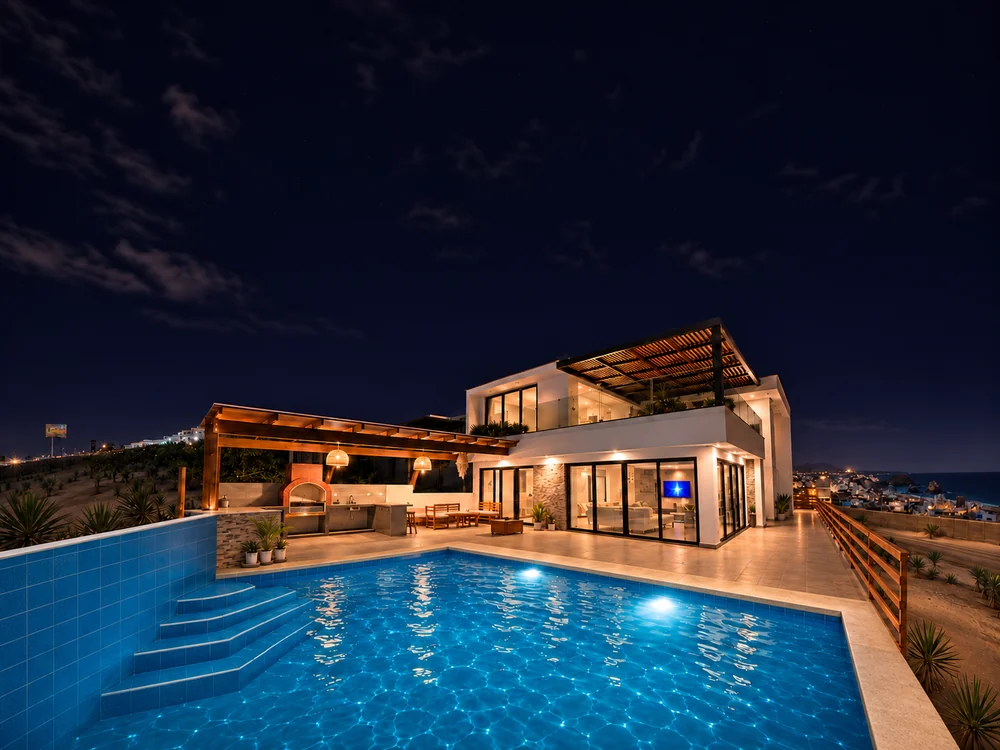
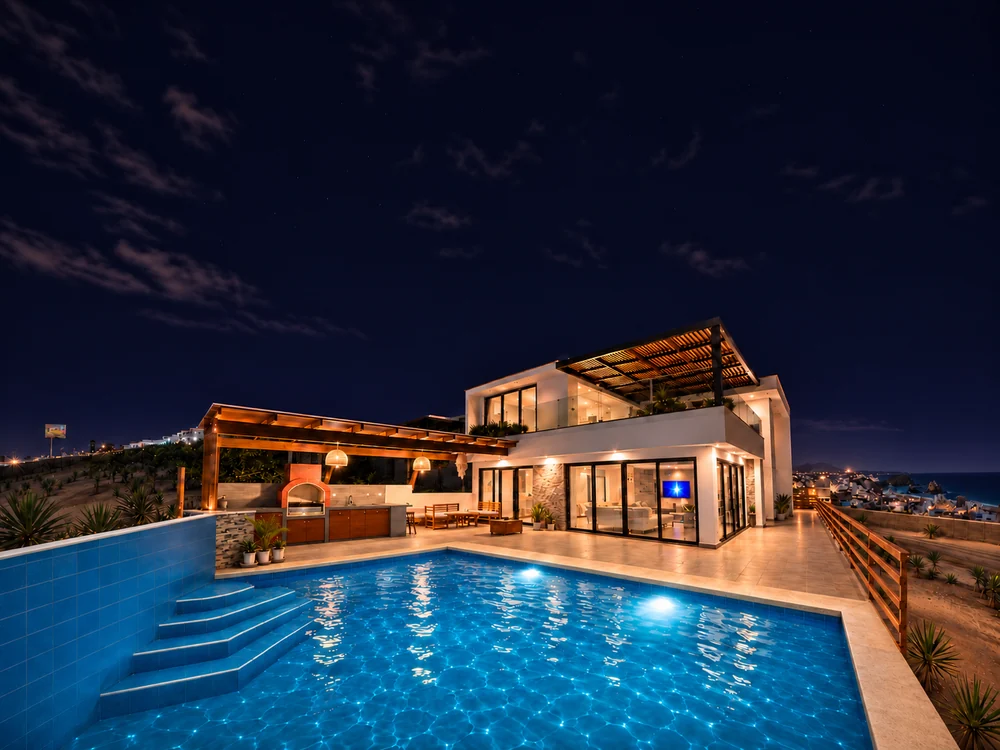
Portada "final exterior", regla de fumar, garaje y quitar pendientes de toallas/Starlink

diff --git a/index.html b/index.html
@@ -70,6 +70,7 @@
     <symbol id="i-wrench" viewBox="0 0 24 24"><path d="M14.7 6.3a1 1 0 0 0 0 1.4l1.6 1.6a1 1 0 0 0 1.4 0l3.77-3.77a6 6 0 0 1-7.94 7.94l-6.91 6.91a2.12 2.12 0 0 1-3-3l6.91-6.91a6 6 0 0 1 7.94-7.94l-3.76 3.76z"/></symbol>
     <symbol id="i-camera" viewBox="0 0 24 24"><path d="M14.5 4h-5L7 7H4a2 2 0 0 0-2 2v9a2 2 0 0 0 2 2h16a2 2 0 0 0 2-2V9a2 2 0 0 0-2-2h-3l-2.5-3z"/><circle cx="12" cy="13" r="3"/></symbol>
     <symbol id="i-pin" viewBox="0 0 24 24"><path d="M20 10c0 5-5.54 10.19-7.4 11.8a1 1 0 0 1-1.2 0C9.54 20.19 4 15 4 10a8 8 0 0 1 16 0"/><circle cx="12" cy="10" r="3"/></symbol>
+    <symbol id="i-smoke" viewBox="0 0 24 24"><path d="M17 12H3a1 1 0 0 0-1 1v2a1 1 0 0 0 1 1h14"/><path d="M18 8c0-2.5-2-2.5-2-5"/><path d="M21 16a1 1 0 0 0 1-1v-2a1 1 0 0 0-1-1"/><path d="M22 8c0-2.5-2-2.5-2-5"/><path d="M7 12v4"/></symbol>
     <symbol id="i-car" viewBox="0 0 24 24"><path d="M19 17h2c.6 0 1-.4 1-1v-3c0-.9-.7-1.7-1.5-1.9C18.7 10.6 16 10 16 10s-1.3-1.4-2.2-2.3c-.5-.4-1.1-.7-1.8-.7H5c-.6 0-1.1.4-1.4.9l-1.4 2.9A3.7 3.7 0 0 0 2 12v4c0 .6.4 1 1 1h2"/><circle cx="7" cy="17" r="2"/><path d="M9 17h6"/><circle cx="17" cy="17" r="2"/></symbol>
     <symbol id="i-waves" viewBox="0 0 24 24"><path d="M2 6c.6.5 1.2 1 2.5 1C7 7 7 5 9.5 5c2.6 0 2.4 2 5 2 2.5 0 2.5-2 5-2 1.3 0 1.9.5 2.5 1"/><path d="M2 12c.6.5 1.2 1 2.5 1 2.5 0 2.5-2 5-2 2.6 0 2.4 2 5 2 2.5 0 2.5-2 5-2 1.3 0 1.9.5 2.5 1"/><path d="M2 18c.6.5 1.2 1 2.5 1 2.5 0 2.5-2 5-2 2.6 0 2.4 2 5 2 2.5 0 2.5-2 5-2 1.3 0 1.9.5 2.5 1"/></symbol>
     <symbol id="i-shirt" viewBox="0 0 24 24"><path d="M20.38 3.46 16 2a4 4 0 0 1-8 0L3.62 3.46a2 2 0 0 0-1.34 2.23l.58 3.47a1 1 0 0 0 .99.84H6v10c0 1.1.9 2 2 2h8a2 2 0 0 0 2-2V10h2.15a1 1 0 0 0 .99-.84l.58-3.47a2 2 0 0 0-1.34-2.23z"/></symbol>
@@ -308,7 +309,7 @@
             <li data-i18n="inc.g1.4">Comedor al aire libre</li>
             <li data-i18n="inc.g1.5">Tumbonas</li>
             <li data-i18n="inc.g1.6">Ducha exterior</li>
-            <li data-i18n="inc.g1.7">Estacionamiento gratuito en la casa</li>
+            <li data-i18n="inc.g1.7">Garaje para unos 3 autos + 1 espacio extra al lado de la casa</li>
           </ul>
         </details>
 
@@ -381,8 +382,6 @@
           <ul class="nolist">
             <li><svg class="ic" width="20" height="20" aria-hidden="true"><use href="#i-shirt"/></svg><span data-i18n="inc.no1">Lavadora ni secadora de ropa</span></li>
             <li><svg class="ic" width="20" height="20" aria-hidden="true"><use href="#i-snow"/></svg><span data-i18n="inc.no2">Aire acondicionado (hay ventiladores)</span></li>
-            <!-- [CONFIRMAR] Toallas y artículos básicos de baño: confirmar con el anfitrión que NO se incluyen -->
-            <li><svg class="ic" width="20" height="20" aria-hidden="true"><use href="#i-bath"/></svg><span data-i18n="inc.no3">Toallas y artículos básicos de baño</span></li>
             <li><svg class="ic" width="20" height="20" aria-hidden="true"><use href="#i-drop"/></svg><span data-i18n="inc.no4">Consumo de agua adicional a la cisterna incluida (lo asume el huésped)</span></li>
             <li><svg class="ic" width="20" height="20" aria-hidden="true"><use href="#i-thermo"/></svg><span data-i18n="inc.no5">Calefacción de la piscina (fuera del verano, el agua está fría)</span></li>
           </ul>
@@ -408,7 +407,7 @@
       <li class="rule rv rv-up" style="--d:.35s"><svg class="ic" width="22" height="22" aria-hidden="true"><use href="#i-mute"/></svg><p data-i18n="rules.r7">No se permiten fiestas ruidosas ni eventos masivos. Las multas del condominio se trasladan al huésped.</p></li>
       <li class="rule rv rv-up" style="--d:.4s"><svg class="ic" width="22" height="22" aria-hidden="true"><use href="#i-wrench"/></svg><p data-i18n="rules.r8">No manipular el cuarto de máquinas de la piscina. La catarata funciona en horario programado; para otro horario, coordina con el anfitrión.</p></li>
       <li class="rule rv rv-up" style="--d:.45s"><svg class="ic" width="22" height="22" aria-hidden="true"><use href="#i-camera"/></svg><p data-i18n="rules.r9">Fotos y grabaciones solo dentro del lote de la casa, no en áreas comunes ni casas vecinas.</p></li>
-      <!-- [CONFIRMAR] Fumar: Airbnb dice "apto para fumadores"; ¿solo en exteriores? Agregar aquí una tarjeta cuando se confirme. -->
+      <li class="rule rv rv-up" style="--d:.5s"><svg class="ic" width="22" height="22" aria-hidden="true"><use href="#i-smoke"/></svg><p data-i18n="rules.r10">Se permite fumar, de preferencia en las zonas exteriores.</p></li>
     </ul>
   </div>
 </section>
@@ -512,12 +511,10 @@
       <details class="acc"><summary><span data-i18n="faq.q3">¿Puedo llevar a mi mascota?</span><svg class="ic chev" width="18" height="18" aria-hidden="true"><use href="#i-down"/></svg></summary><p data-i18n="faq.a3">Sí, 1 mascota de raza pequeña.</p></details>
       <details class="acc"><summary><span data-i18n="faq.q4">¿La piscina es temperada?</span><svg class="ic chev" width="18" height="18" aria-hidden="true"><use href="#i-down"/></svg></summary><p data-i18n="faq.a4">No. En verano el agua está muy agradable; en invierno, fría.</p></details>
       <details class="acc"><summary><span data-i18n="faq.q5">¿Qué tan lejos está la playa?</span><svg class="ic chev" width="18" height="18" aria-hidden="true"><use href="#i-down"/></svg></summary><p data-i18n="faq.a5">Unos 10 minutos en auto, cruzando la Panamericana.</p></details>
-      <!-- [CONFIRMAR Mbps] Agregar la velocidad del Starlink a esta respuesta (ES y EN) cuando se confirme. -->
       <details class="acc"><summary><span data-i18n="faq.q6">¿Puedo trabajar desde la casa?</span><svg class="ic chev" width="18" height="18" aria-hidden="true"><use href="#i-down"/></svg></summary><p data-i18n="faq.a6">Sí: hay Wi-Fi satelital Starlink y una mesa de comedor amplia.</p></details>
       <details class="acc"><summary><span data-i18n="faq.q7">¿Hay que avisar quiénes vienen?</span><svg class="ic chev" width="18" height="18" aria-hidden="true"><use href="#i-down"/></svg></summary><p data-i18n="faq.a7">Sí. El condominio solo deja pasar a quienes estén en la lista enviada al anfitrión.</p></details>
       <details class="acc"><summary><span data-i18n="faq.q8">¿Se pueden hacer fiestas?</span><svg class="ic chev" width="18" height="18" aria-hidden="true"><use href="#i-down"/></svg></summary><p data-i18n="faq.a8">No se permiten fiestas ruidosas ni eventos masivos. Hay horas de silencio del condominio.</p></details>
-      <!-- [CONFIRMAR] Toallas: respuesta provisional, coherente con "No incluye". Confirmar con el anfitrión. -->
-      <details class="acc"><summary><span data-i18n="faq.q9">¿Hay toallas?</span><svg class="ic chev" width="18" height="18" aria-hidden="true"><use href="#i-down"/></svg></summary><p data-i18n="faq.a9">Las toallas y los artículos básicos de baño no están incluidos, así que te recomendamos traer los tuyos.</p></details>
+      <details class="acc"><summary><span data-i18n="faq.q9">¿Hay estacionamiento?</span><svg class="ic chev" width="18" height="18" aria-hidden="true"><use href="#i-down"/></svg></summary><p data-i18n="faq.a9">Sí. La casa tiene garaje para unos 3 autos y se puede estacionar 1 más al lado de la casa, sin costo.</p></details>
     </div>
   </div>
 </section>

diff --git a/js/main.js b/js/main.js
@@ -149,7 +149,7 @@ const CONFIG = {
       "inc.title": "What's included and what's not", "inc.yes": "Included",
       "inc.g1": "Outdoors",
       "inc.g1.1": "Private pool with waterfall and lighting", "inc.g1.2": "Terrace with grill and oven", "inc.g1.3": "Grill tools and fuel",
-      "inc.g1.4": "Outdoor dining area", "inc.g1.5": "Sun loungers", "inc.g1.6": "Outdoor shower", "inc.g1.7": "Free parking on the property",
+      "inc.g1.4": "Outdoor dining area", "inc.g1.5": "Sun loungers", "inc.g1.6": "Outdoor shower", "inc.g1.7": "Garage for about 3 cars + 1 extra spot next to the house",
       "inc.g2": "Kitchen",
       "inc.g2.1": "Fridge and freezer", "inc.g2.2": "Microwave and oven", "inc.g2.3": "Kettle, coffee maker and coffee", "inc.g2.4": "Blender and rice cooker",
       "inc.g2.5": "Pots and pans", "inc.g2.6": "Oil, salt and pepper", "inc.g2.7": "Dishes and wine glasses", "inc.g2.8": "Baking sheet", "inc.g2.9": "Dining table",
@@ -164,7 +164,7 @@ const CONFIG = {
       "inc.g7": "Water",
       "inc.g7.1": "A full water tank (9 m³), enough for a normal stay",
       "inc.no": "Not included",
-      "inc.no1": "Washer or dryer", "inc.no2": "Air conditioning (fans are provided)", "inc.no3": "Towels and basic toiletries",
+      "inc.no1": "Washer or dryer", "inc.no2": "Air conditioning (fans are provided)",
       "inc.no4": "Water use beyond the included tank (paid by the guest)", "inc.no5": "Pool heating (outside summer, the water is cold)",
       "rules.title": "House rules",
       "rules.r1": "Check-in from 3:00 p.m. · Check-out by 11:00 a.m.",
@@ -176,6 +176,7 @@ const CONFIG = {
       "rules.r7": "No loud parties or large events. Any community fines are passed on to the guest.",
       "rules.r8": "Please don't touch the pool machine room. The waterfall runs on a set schedule; for other times, check with the host.",
       "rules.r9": "Photos and filming only within the house's lot, not in common areas or at neighboring houses.",
+      "rules.r10": "Smoking is allowed, preferably in the outdoor areas.",
       "rev.srTitle": " out of 5 on Airbnb", "rev.meta": "11 reviews · Guest favorite",
       "rev.c1": "Cleanliness", "rev.c2": "Accuracy", "rev.c3": "Check-in", "rev.c4": "Communication", "rev.c5": "Location", "rev.c6": "Value",
       "rev.prev": "Previous review", "rev.next": "Next review", "rev.list": "Reviews",
@@ -205,7 +206,7 @@ const CONFIG = {
       "faq.q6": "Can I work from the house?", "faq.a6": "Yes: there's Starlink satellite Wi-Fi and a large dining table.",
       "faq.q7": "Do I need to say who's coming?", "faq.a7": "Yes. The community only lets in people on the list sent to the host.",
       "faq.q8": "Are parties allowed?", "faq.a8": "No loud parties or large events are allowed. The community has quiet hours.",
-      "faq.q9": "Are towels provided?", "faq.a9": "Towels and basic toiletries aren't included, so we recommend bringing your own.",
+      "faq.q9": "Is there parking?", "faq.a9": "Yes. The house has a garage for about 3 cars, plus room to park 1 more next to the house, free of charge.",
       "mcta.from": "From S/ <span class=\"js-price\"></span> · 2 nights",
       "lb.aria": "Enlarged photo", "lb.close": "Close", "lb.prev": "Previous photo", "lb.next": "Next photo",
     },

diff --git a/README.md b/README.md
@@ -32,14 +32,6 @@ assets/favicon.svg
 
 Con `type: "mp4"`, el mismo video también se reproduce en silencio y en bucle en la tarjeta pequeña del hero.
 
-## Pendientes por confirmar
-
-Busca `[CONFIRMAR]` en `index.html`:
-
-- Si se incluyen o no **toallas** y artículos básicos de baño (aparece en "No incluye" y en la FAQ).
-- Política de **fumar** (Airbnb dice "apto para fumadores"; ¿solo en exteriores?). Hoy no se muestra.
-- **Velocidad del Starlink** en Mbps para la FAQ de trabajo remoto.
-
 ## Textos
 
 El español está escrito en `index.html`; el inglés está en el objeto `I18N.en` de `js/main.js`, con la misma clave que el atributo `data-i18n` del elemento.
